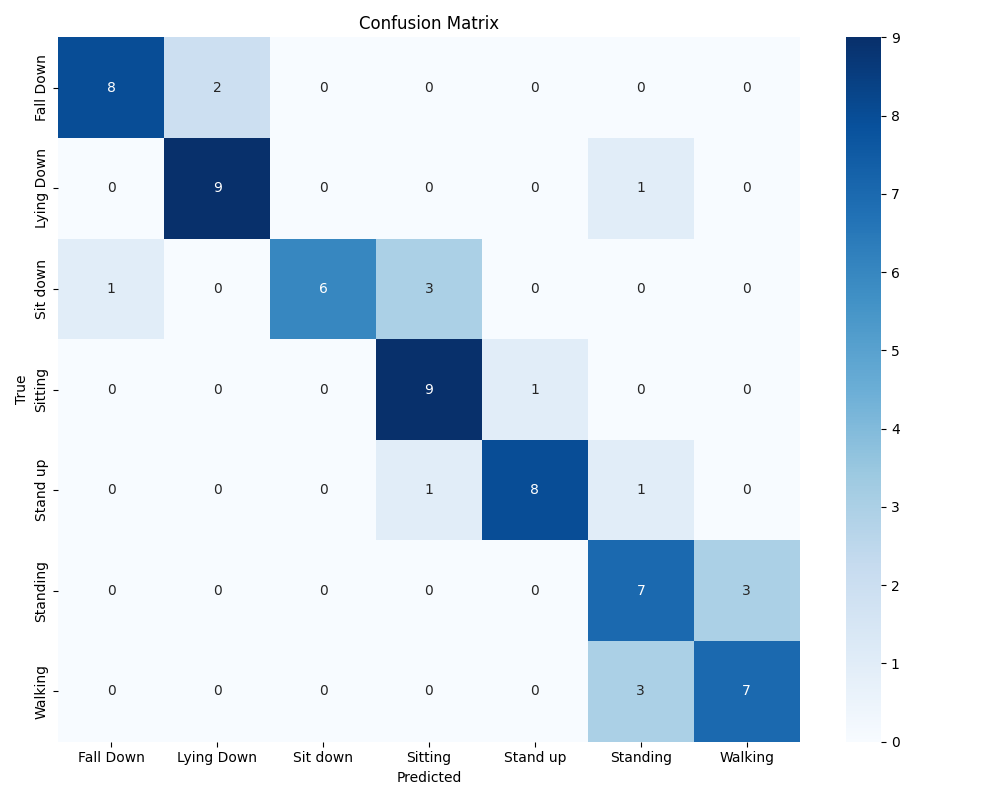
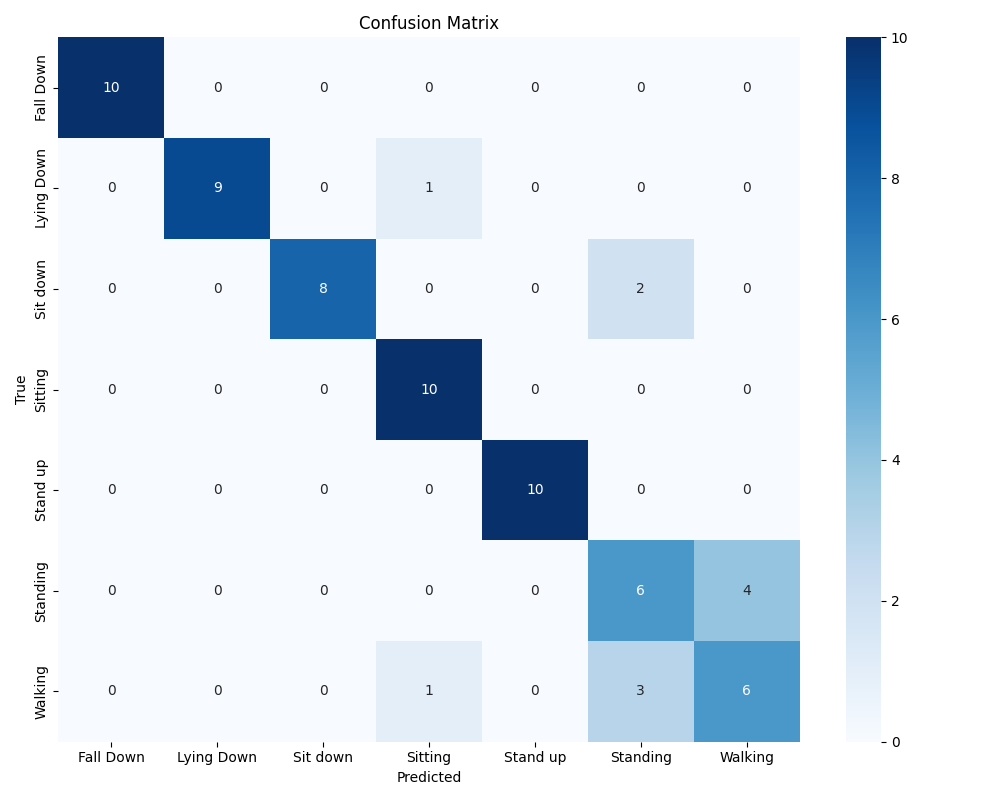
update

diff --git a/test_model.py b/test_model.py
@@ -2,10 +2,11 @@ import os
 import cv2
 import numpy as np
 from collections import defaultdict
-from sklearn.metrics import confusion_matrix
+from sklearn.metrics import confusion_matrix, classification_report
 import seaborn as sns
 import matplotlib.pyplot as plt
 from main import init_models, process_keypoints, predict_action
+from modules.fall_detection import FallDetectionSystem
 
 def process_video(video_path, yolo, stgcn, device, class_names):
     cap = cv2.VideoCapture(video_path)
@@ -16,6 +17,9 @@ def process_video(video_path, yolo, stgcn, device, class_names):
     frames_queue = []
     frame_count = 0
     valid_frame_count = 0
+    fall_system = FallDetectionSystem(prob_threshold=5)  # Giảm ngưỡng cho testing
+    fall_detected = False
+    actions_history = []
 
     # Thu thập tất cả keypoints từ video
     while True:
@@ -26,10 +30,20 @@ def process_video(video_path, yolo, stgcn, device, class_names):
         frame_count += 1
         results = yolo.track(frame, persist=True, conf=0.5, tracker="bytetrack.yaml")
         
-        keypoints_list, _ = process_keypoints(results)
+        keypoints_list, track_ids = process_keypoints(results)
         if keypoints_list is not None:
             valid_frame_count += 1
             frames_queue.append(keypoints_list[0])
+
+            # Nếu đủ frame để dự đoán
+            if len(frames_queue) >= 15:
+                action = predict_action(stgcn, frames_queue, device, class_names)
+                if isinstance(action, str) and action != "Collecting frames...":
+                    actions_history.append(action)
+                    # Cập nhật trạng thái té ngã theo logic mới
+                    is_falling = fall_system.update(action)
+                    if is_falling:
+                        fall_detected = True
 
     cap.release()
 
@@ -37,11 +51,19 @@ def process_video(video_path, yolo, stgcn, device, class_names):
     if frame_count == 0 or valid_frame_count / frame_count < 0.7:
         return None
 
-    # Nếu có ít nhất 15 frame hợp lệ, dự đoán hành động
-    if len(frames_queue) >= 15:
-        action = predict_action(stgcn, frames_queue, device, class_names)
-        if isinstance(action, str) and action != "Collecting frames...":
-            return action
+    # Nếu có ít nhất 15 frame hợp lệ, trả về hành động phổ biến nhất
+    if actions_history:
+        # Nếu phát hiện té ngã theo logic mới
+        if fall_detected:
+            # Kiểm tra thêm điều kiện từ chuỗi hành động
+            recent_actions = actions_history[-5:] if len(actions_history) > 5 else actions_history
+            if ('Fall Down' in recent_actions or 
+                ('Lying Down' in recent_actions and 
+                 any(act in ['Standing', 'Walking'] for act in actions_history[:-2]))):
+                return "Fall Down"
+        
+        # Nếu không phát hiện té ngã, trả về hành động phổ biến nhất
+        return max(set(actions_history), key=actions_history.count)
 
     return None
 
@@ -123,11 +145,8 @@ def main():
         pred_labels.extend(predictions)
 
     # Tạo confusion matrix
-    cm = confusion_matrix(true_labels, pred_labels, labels=class_names)
-    
-    # Vẽ confusion matrix
     plt.figure(figsize=(10, 8))
-    sns.heatmap(cm, annot=True, fmt='d', cmap='Blues',
+    sns.heatmap(confusion_matrix(true_labels, pred_labels, labels=class_names), annot=True, fmt='d', cmap='Blues',
                 xticklabels=class_names,
                 yticklabels=class_names)
     plt.title('Confusion Matrix')
@@ -137,13 +156,38 @@ def main():
     plt.savefig('confusion_matrix.png')
     plt.close()
 
-    # In kết quả
-    print("\nResults after balancing:")
+    # Tạo classification report
+    report = classification_report(true_labels, pred_labels, 
+                                 target_names=class_names, 
+                                 digits=2)
+    
+    # Lưu kết quả vào file
+    with open('classification_results.txt', 'w') as f:
+        f.write("Classification Report:\n")
+        f.write("-" * 60 + "\n")
+        f.write(report)
+        f.write("\n\nDetailed Results:\n")
+        f.write("-" * 60 + "\n")
+        for label, predictions in balanced_results.items():
+            total = len(predictions)
+            correct = sum(1 for p in predictions if p == label)
+            accuracy = (correct / total) * 100 if total > 0 else 0
+            f.write(f"{label}: {correct}/{total} correct ({accuracy:.2f}% accuracy)\n")
+
+    # In kết quả ra màn hình
+    print("\nClassification Report:")
+    print("-" * 60)
+    print(report)
+    
+    print("\nDetailed Results:")
+    print("-" * 60)
     for label, predictions in balanced_results.items():
         total = len(predictions)
         correct = sum(1 for p in predictions if p == label)
         accuracy = (correct / total) * 100 if total > 0 else 0
         print(f"{label}: {correct}/{total} correct ({accuracy:.2f}% accuracy)")
+
+    print("\nResults have been saved to 'classification_results.txt'")
 
 if __name__ == '__main__':
     main()

diff --git a/main.py b/main.py
@@ -5,6 +5,7 @@ from ultralytics import YOLO
 from models.stgcn import TwoStreamSpatialTemporalGraph
 from dataloader.dataset import processing_data
 from collections import deque
+import time
 
 class FallDetectionSystem:
     def __init__(self, prob_threshold=5):
@@ -120,7 +121,7 @@ def main():
     fall_system = FallDetectionSystem()
     
     # Khởi tạo camera
-    cap = cv2.VideoCapture('videoplayback.mp4')
+    cap = cv2.VideoCapture('0405.mp4')
     if not cap.isOpened():
         print("Error: Could not open camera")
         return
@@ -128,16 +129,30 @@ def main():
     # Dictionary để lưu trữ frames cho từng người
     frames_queues = {}
     
+    # Biến để tính FPS
+    prev_time = time.time()
+    fps = 0
+    
     while True:
         ret, frame = cap.read()
         if not ret:
             break
             
+        # Tính FPS
+        current_time = time.time()
+        fps = 1 / (current_time - prev_time)
+        prev_time = current_time
+            
         # Phát hiện pose với YOLO và tracking
-        results = yolo.track(frame, persist=True, conf=0.5, tracker="bytetrack.yaml")
+        results = yolo.track(frame, persist=True, conf=0.5, tracker="bytetrack.yaml", verbose=False)
         
         # Xử lý keypoints
         keypoints_list, track_ids = process_keypoints(results)
+        
+        # Hiển thị FPS
+        cv2.putText(frame, f"FPS: {int(fps)}", (10, 60),
+                    cv2.FONT_HERSHEY_SIMPLEX, 2.0, (0, 255, 0), 3)
+        
         if keypoints_list is not None:
             for i, (keypoints, track_id) in enumerate(zip(keypoints_list, track_ids)):
                 # Khởi tạo queue cho người mới
@@ -185,8 +200,13 @@ def main():
                         pt2 = (int(keypoints_2d[pair[1]][0]), int(keypoints_2d[pair[1]][1]))
                         cv2.line(frame, pt1, pt2, (0, 255, 0), 2)
         
+        # Resize frame để hiển thị
+        display_width = 1280  # Chiều rộng mong muốn
+        display_height = int(frame.shape[0] * (display_width / frame.shape[1]))  # Tính chiều cao tỷ lệ
+        display_frame = cv2.resize(frame, (display_width, display_height))
+        
         # Hiển thị frame
-        cv2.imshow('Fall Detection', frame)
+        cv2.imshow('Fall Detection', display_frame)
         
         # Thoát khi nhấn 'q'
         if cv2.waitKey(1) & 0xFF == ord('q'):
